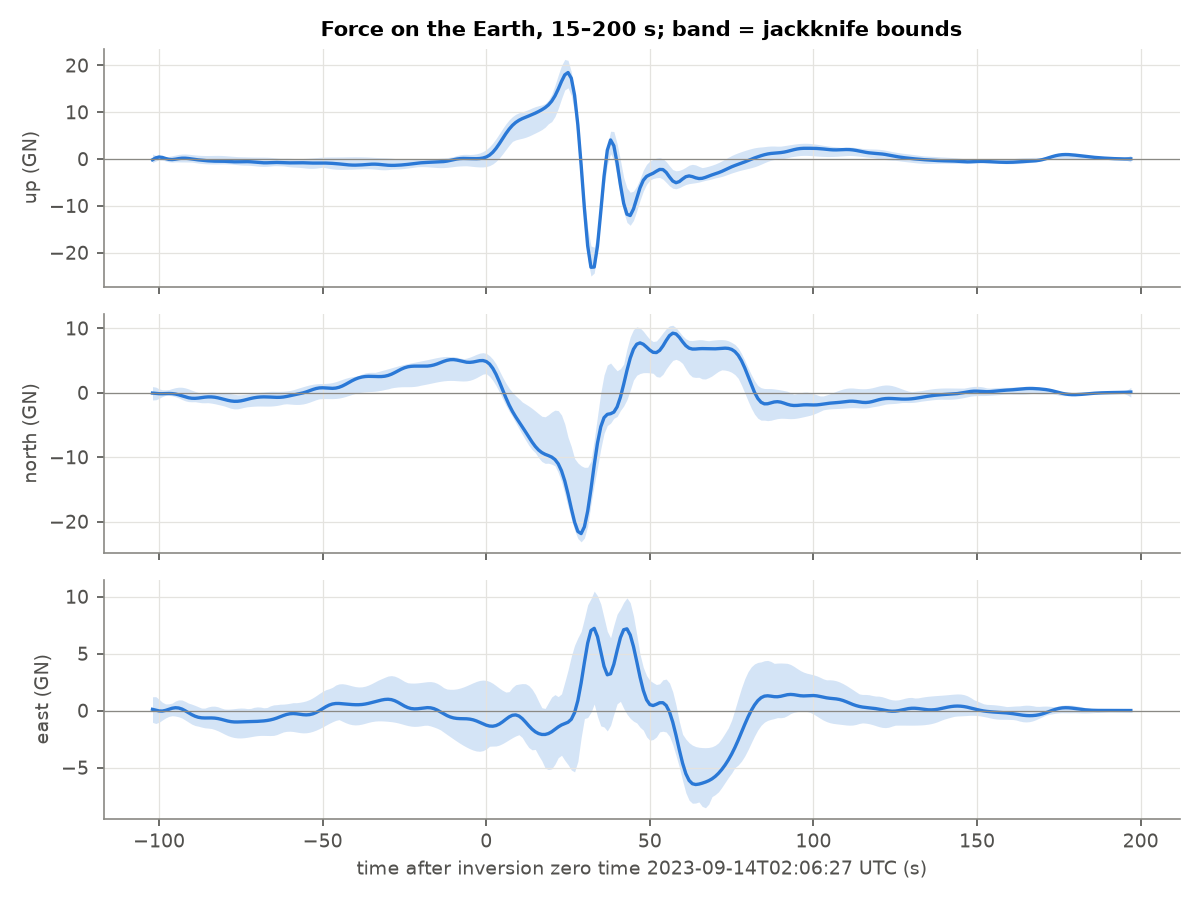
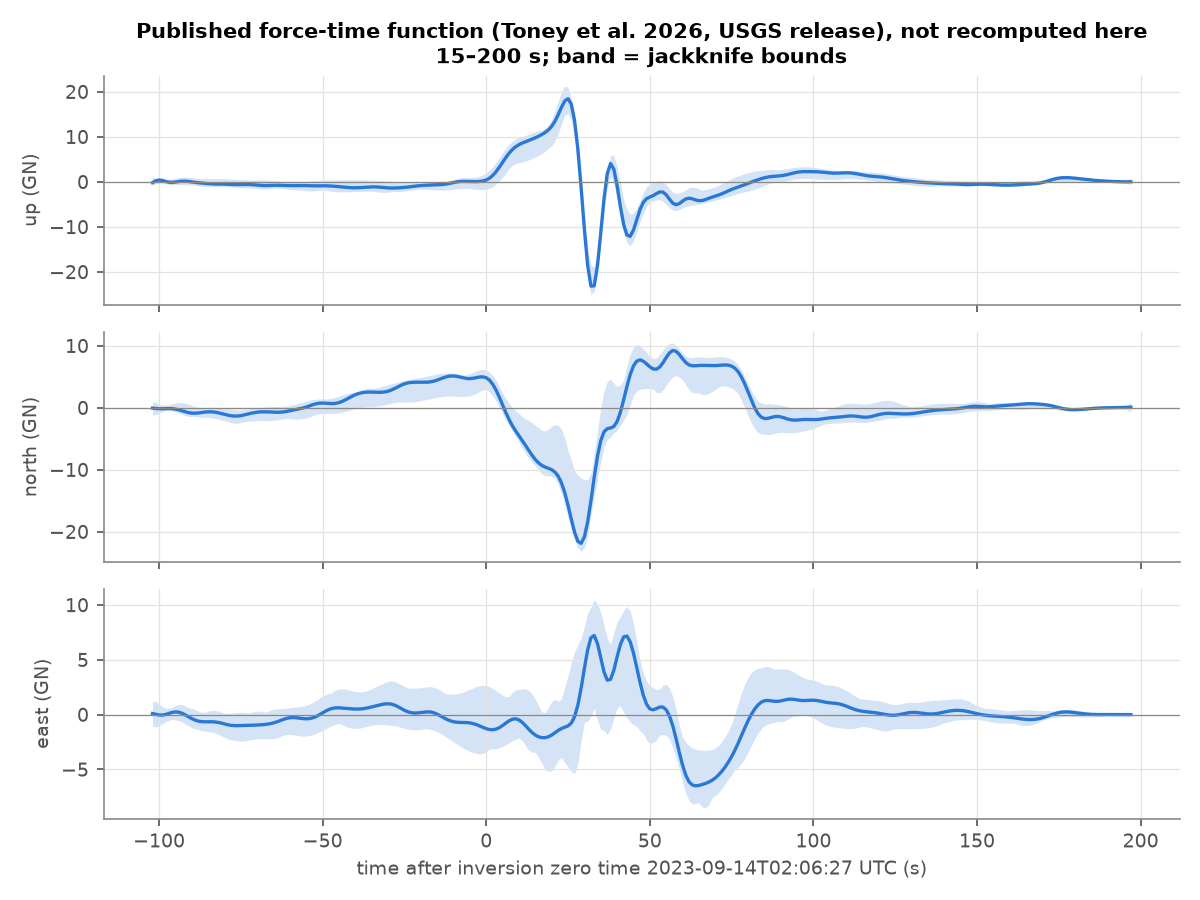
Report: label force panel as published result; add Sentinel-2 panel
The force-time function is Toney et al. (2026)'s published inversion
from the USGS release, plotted unmodified; say so in the panel title,
section heading, caption, page header and footer. Add the Sentinel-2
before/after panel now that optical_s2.zarr is staged, with a note that
the post-event scene is snow-covered.

diff --git a/docs/index.html b/docs/index.html
@@ -34,14 +34,14 @@ footer{margin-top:48px;color:var(--muted);font-size:12.5px}
 <p class="sub">Denali National Park and Preserve, Alaska. Data container built with
 <a href="https://github.com/gaia-hazlab/gaia-cli">gaia-cli</a> conventions for the event studied in
 Toney et al. (2026), <em>JGR Earth Surface</em>, <a href="https://doi.org/10.1029/2025JF008577">doi:10.1029/2025JF008577</a>.
-Model output, force inversion and outlines come from the USGS data release
+The force-time function, SHALTOP run and source/deposit outlines are the published results from the USGS data release, plotted as released, not recomputed here:
 <a href="https://doi.org/10.5066/P13WIS6X">doi:10.5066/P13WIS6X</a>.</p>
 <div class="tiles"><div class="tile"><div class="v">2023-09-14 02:06:49</div><div class="k">origin (UTC)</div></div><div class="tile"><div class="v">6.1 × 10⁶ m³</div><div class="k">volume</div></div><div class="tile"><div class="v">0.143 / 1.520 km²</div><div class="k">source / footprint</div></div><div class="tile"><div class="v">> 60 m/s</div><div class="k">peak speed</div></div><div class="tile"><div class="v">48</div><div class="k">seismic stations</div></div><div class="tile"><div class="v">31</div><div class="k">infrasound sensors</div></div></div>
-<nav><a href="#map">Stations</a><a href="#seismic">Seismic record section</a><a href="#infrasound">Infrasound record section</a><a href="#i53">I53US array</a><a href="#force">Force-time function</a><a href="#sar">Sentinel-1 before / after</a><a href="#optical">Sentinel-2 before / after</a><a href="#shaltop">Flow model</a><a href="#glacier">Glacier context</a><a href="#met">Antecedent weather</a><a href="#profile">Atmosphere at event time</a></nav>
-<h2 id="map">Stations</h2><figure><img src="figures/map.png" alt="Stations" loading="lazy"><figcaption>Seismic stations within 250 km (HH/BH, response removed) and infrasound sensors within 400 km (BDF/HDF, sensitivity removed), from the EarthScope FDSN service. Rings every 100 km around the ComCat location. Store: <code>stations/seismic</code>, <code>stations/infrasound</code>.</figcaption></figure><details><summary>Station table</summary><table><thead><tr><th>type</th><th>station</th><th>channel</th><th>distance (km)</th><th>back azimuth (°)</th></tr></thead><tbody><tr><td>infrasound</td><td>AK.CUT.EP</td><td>BDF</td><td>95.1</td><td>330.5</td></tr><tr><td>infrasound</td><td>AK.CHUM.EP</td><td>BDF</td><td>99.4</td><td>145.2</td></tr><tr><td>infrasound</td><td>AK.SKN.EP</td><td>BDF</td><td>131.1</td><td>7.5</td></tr><tr><td>infrasound</td><td>AK.NEA2.EP</td><td>BDF</td><td>192.1</td><td>213.8</td></tr><tr><td>infrasound</td><td>AK.MLY.EP</td><td>BDF</td><td>211.2</td><td>186.1</td></tr><tr><td>infrasound</td><td>AV.SPCP</td><td>BDF</td><td>215.5</td><td>13.1</td></tr><tr><td>infrasound</td><td>AV.SPWE</td><td>BDF</td><td>220.4</td><td>18.2</td></tr><tr><td>infrasound</td><td>AV.SPU</td><td>BDF</td><td>223.5</td><td>11.3</td></tr><tr><td>infrasound</td><td>AK.M23K.EP</td><td>BDF</td><td>233.8</td><td>311.7</td></tr><tr><td>infrasound</td><td>AK.RC01.EP</td><td>BDF</td><td>241.4</td><td>342.3</td></tr><tr><td>infrasound</td><td>IM.I53H4</td><td>BDF</td><td>250.8</td><td>221.9</td></tr><tr><td>infrasound</td><td>IM.I53H5</td><td>BDF</td><td>251.2</td><td>221.7</td></tr><tr><td>infrasound</td><td>IM.I53H8</td><td>BDF</td><td>251.5</td><td>221.9</td></tr><tr><td>infrasound</td><td>IM.I53H6</td><td>BDF</td><td>251.7</td><td>221.8</td></tr><tr><td>infrasound</td><td>IM.I53H7</td><td>BDF</td><td>251.7</td><td>221.9</td></tr><tr><td>infrasound</td><td>IM.I53H3</td><td>BDF</td><td>251.8</td><td>222.1</td></tr><tr><td>infrasound</td><td>AK.HDA.EP</td><td>BDF</td><td>252.1</td><td>238.0</td></tr><tr><td>infrasound</td><td>IM.I53H1</td><td>BDF</td><td>252.3</td><td>221.7</td></tr><tr><td>infrasound</td><td>IM.I53H2</td><td>BDF</td><td>252.8</td><td>221.9</td></tr><tr><td>infrasound</td><td>AK.CAPN.EP</td><td>BDF</td><td>264.9</td><td>359.6</td></tr><tr><td>infrasound</td><td>AV.BATI</td><td>HDF</td><td>273.1</td><td>326.2</td></tr><tr><td>infrasound</td><td>AV.BAEI.01</td><td>HDF</td><td>275.5</td><td>325.9</td></tr><tr><td>infrasound</td><td>AV.BAIS.01</td><td>HDF</td><td>275.6</td><td>326.3</td></tr><tr><td>infrasound</td><td>AV.KENI.01</td><td>HDF</td><td>279.2</td><td>358.8</td></tr><tr><td>infrasound</td><td>AK.POKR.EP</td><td>BDF</td><td>285.9</td><td>221.5</td></tr><tr><td>infrasound</td><td>AV.WHTR.01</td><td>HDF</td><td>293.6</td><td>335.0</td></tr><tr><td>infrasound</td><td>AV.RDT</td><td>BDF</td><td>293.8</td><td>12.1</td></tr><tr><td>infrasound</td><td>AV.RDDF</td><td>BDF</td><td>295.4</td><td>14.8</td></tr><tr><td>infrasound</td><td>AV.RDSO</td><td>BDF</td><td>311.0</td><td>14.6</td></tr><tr><td>infrasound</td><td>AK.HARP.EP</td><td>BDF</td><td>319.0</td><td>287.8</td></tr><tr><td>infrasound</td><td>AK.HOM.EP</td><td>BDF</td><td>389.5</td><td>3.4</td></tr><tr><td>seismic</td><td>AK.KTH</td><td>BH?</td><td>47.3</td><td>196.5</td></tr><tr><td>seismic</td><td>AK.CAST</td><td>BH?</td><td>54.2</td><td>123.8</td></tr><tr><td>seismic</td><td>AK.PPLA</td><td>BH?</td><td>57.7</td><td>60.8</td></tr><tr><td>seismic</td><td>AK.L22K</td><td>BH?</td><td>72.3</td><td>343.0</td></tr><tr><td>seismic</td><td>AK.CUT</td><td>BH?</td><td>95.1</td><td>330.5</td></tr><tr><td>seismic</td><td>AK.CHUM</td><td>BH?</td><td>99.4</td><td>145.2</td></tr><tr><td>seismic</td><td>AK.BPAW</td><td>BH?</td><td>106.8</td><td>185.5</td></tr><tr><td>seismic</td><td>AK.RND</td><td>BH?</td><td>120.5</td><td>257.1</td></tr><tr><td>seismic</td><td>AK.WAT7</td><td>BH?</td><td>123.8</td><td>287.4</td></tr><tr><td>seismic</td><td>AK.MCK</td><td>BH?</td><td>130.1</td><td>240.8</td></tr><tr><td>seismic</td><td>AK.SKN</td><td>BH?</td><td>131.1</td><td>7.5</td></tr><tr><td>seismic</td><td>AK.WAT1</td><td>HH?</td><td>138.4</td><td>285.9</td></tr><tr><td>seismic</td><td>AK.K20K</td><td>BH?</td><td>146.6</td><td>98.0</td></tr><tr><td>seismic</td><td>AK.L20K</td><td>BH?</td><td>156.0</td><td>60.4</td></tr><tr><td>seismic</td><td>AK.M20K</td><td>BH?</td><td>172.7</td><td>34.5</td></tr><tr><td>seismic</td><td>AK.J20K</td><td>BH?</td><td>186.1</td><td>126.8</td></tr><tr><td>seismic</td><td>AK.WAT6</td><td>BH?</td><td>186.6</td><td>291.2</td></tr><tr><td>seismic</td><td>AV.STLK</td><td>BH?</td><td>186.6</td><td>10.0</td></tr><tr><td>seismic</td><td>AK.NEA2</td><td>BH?</td><td>192.1</td><td>213.8</td></tr><tr><td>seismic</td><td>AK.GHO</td><td>BH?</td><td>192.7</td><td>323.7</td></tr><tr><td>seismic</td><td>AK.DHY</td><td>BH?</td><td>192.7</td><td>274.0</td></tr><tr><td>seismic</td><td>AV.SPBL</td><td>BH?</td><td>200.5</td><td>10.2</td></tr><tr><td>seismic</td><td>AT.PMR</td><td>BH?</td><td>203.3</td><td>329.3</td></tr><tr><td>seismic</td><td>AK.SAW</td><td>BH?</td><td>209.7</td><td>316.6</td></tr><tr><td>seismic</td><td>AV.SPCG</td><td>BH?</td><td>211.1</td><td>11.5</td></tr><tr><td>seismic</td><td>AK.MLY</td><td>BH?</td><td>211.2</td><td>186.1</td></tr><tr><td>seismic</td><td>AK.WRH</td><td>BH?</td><td>212.5</td><td>227.3</td></tr><tr><td>seismic</td><td>AV.SPNN</td><td>BH?</td><td>213.3</td><td>20.9</td></tr><tr><td>seismic</td><td>AK.M19K</td><td>BH?</td><td>215.2</td><td>48.6</td></tr><tr><td>seismic</td><td>AV.SPCP</td><td>BH?</td><td>215.5</td><td>13.1</td></tr><tr><td>seismic</td><td>AK.L19K</td><td>BH?</td><td>216.3</td><td>58.6</td></tr><tr><td>seismic</td><td>AV.SPBG</td><td>BH?</td><td>219.0</td><td>15.8</td></tr><tr><td>seismic</td><td>AV.SPCN</td><td>BH?</td><td>220.3</td><td>13.1</td></tr><tr><td>seismic</td><td>AV.SPWE</td><td>BH?</td><td>220.4</td><td>18.2</td></tr><tr><td>seismic</td><td>AV.N20K</td><td>BH?</td><td>223.2</td><td>13.3</td></tr><tr><td>seismic</td><td>AV.SPU</td><td>BH?</td><td>223.5</td><td>11.3</td></tr><tr><td>seismic</td><td>AV.SPCL</td><td>BH?</td><td>225.4</td><td>14.9</td></tr><tr><td>seismic</td><td>AK.FIRE</td><td>BH?</td><td>228.9</td><td>347.6</td></tr><tr><td>seismic</td><td>AK.I21K</td><td>BH?</td><td>230.0</td><td>170.0</td></tr><tr><td>seismic</td><td>AK.M23K</td><td>BH?</td><td>233.8</td><td>311.7</td></tr><tr><td>seismic</td><td>AK.CCB</td><td>BH?</td><td>235.7</td><td>226.4</td></tr><tr><td>seismic</td><td>AK.KNK</td><td>BH?</td><td>239.5</td><td>324.9</td></tr><tr><td>seismic</td><td>AK.J19K</td><td>BH?</td><td>239.5</td><td>111.3</td></tr><tr><td>seismic</td><td>AK.I23K</td><td>BH?</td><td>240.3</td><td>202.6</td></tr><tr><td>seismic</td><td>AK.RC01</td><td>BH?</td><td>241.4</td><td>342.3</td></tr><tr><td>seismic</td><td>AT.TTA</td><td>BH?</td><td>245.1</td><td>82.2</td></tr><tr><td>seismic</td><td>AK.SCM</td><td>BH?</td><td>247.0</td><td>308.0</td></tr><tr><td>seismic</td><td>AK.MDM</td><td>BH?</td><td>248.5</td><td>216.9</td></tr></tbody></table></details><h2 id="seismic">Seismic record section</h2><figure><img src="figures/seismic.png" alt="Seismic record section" loading="lazy"><figcaption>Vertical velocity at 48 stations on the common 20 Hz grid, zero-phase Butterworth filtered and each trace normalized; traces thinned to a minimum distance spacing so they do not overprint. Orange line: ComCat landslide origin (2023-09-14T02:06:49.074Z). The ComCat precursor (2023-09-14T01:58:54.098Z) is 475 s earlier, outside this window.</figcaption></figure><h2 id="infrasound">Infrasound record section</h2><figure><img src="figures/infrasound.png" alt="Infrasound record section" loading="lazy"><figcaption>Pressure from 31 sensors, 0.5–5 Hz, each trace normalized; thinned to a minimum distance spacing, so each array shows one element. Orange lines: arrival times for constant celerities from the ComCat origin. Dotted vertical line: ComCat precursor time.</figcaption></figure><h2 id="i53">I53US array</h2><figure><img src="figures/i53.png" alt="I53US array" loading="lazy"><figcaption>The eight elements of IMS array I53US (Fairbanks), ~252 km from the source, 0.5–5 Hz. The main pulse arrives about 870 s after the ComCat origin, an apparent celerity of ~0.29 km/s. Shifting the ComCat precursor time by the same travel time (dashed) lands on the arrival near 400 s; the arrival near 720 s has no ComCat entry. This is consistent with the two precursory events the paper reports, but here it is a visual alignment only: no array processing (back azimuth, trace velocity) has been run on these data.</figcaption></figure><h2 id="force">Force-time function</h2><figure><img src="figures/force.png" alt="Force-time function" loading="lazy"><figcaption>Force exerted by the landslide on the Earth, inverted from 15–200 s displacement seismograms (USGS data release, file <code>peters_dome_15-200_s_jackknife.csv</code>). Shaded band: jackknife lower/upper bounds. Zero time 2023-09-14 02:06:27 UTC (release metadata).</figcaption></figure><h2 id="sar">Sentinel-1 before / after</h2><figure><img src="figures/sar.png" alt="Sentinel-1 before / after" loading="lazy"><figcaption>Radiometrically terrain-corrected γ⁰ VV from Planetary Computer <code>sentinel-1-rtc</code>, last scene before and first after the event (12-day repeat, Sentinel-1A only in 2023). Outlines from the USGS release: solid = source + deposit, dashed = source.</figcaption></figure><h2 id="optical">Sentinel-2 before / after</h2><p class="missing">Not available in this build: not staged yet in this build</p><h2 id="shaltop">Flow model</h2><figure><img src="figures/shaltop.png" alt="Flow model" loading="lazy"><figcaption>SHALTOP run 0520 from the USGS release over its own topography (hillshade). Speed is shown only where flow thickness is at least 1 m: unmasked, thin margin cells reach 278 m/s, which is numerical, not physical. With the mask, the 99th percentile of the per-cell maximum speed is 99 m/s; the paper reports speeds exceeding 60 m/s.</figcaption></figure><h2 id="glacier">Glacier context</h2><p class="missing">Not available in this build: not staged yet in this build</p><h2 id="met">Antecedent weather</h2><figure><img src="figures/met.png" alt="Antecedent weather" loading="lazy"><figcaption>Hourly ERA5 (0.25°) via the Open-Meteo archive API at the node nearest the source, aggregated to days. The node's model elevation is far below the ~3,000 m source, so absolute temperatures are warm-biased for the release zone; use the series for timing of warm spells and storms, not for the source temperature. 14 days before the event: mean 4.9 °C, max 11.8 °C, precipitation 193 mm.</figcaption></figure><h2 id="profile">Atmosphere at event time</h2><figure><img src="figures/profile.png" alt="Atmosphere at event time" loading="lazy"><figcaption>Hourly pressure-level profiles at the source, the great-circle midpoint, and I53US, for the hour nearest the origin. Freezing level at the source: 2650 m. Top level 30 hPa (~24 km), so stratospheric ducting is not resolved here.</figcaption></figure>
+<nav><a href="#map">Stations</a><a href="#seismic">Seismic record section</a><a href="#infrasound">Infrasound record section</a><a href="#i53">I53US array</a><a href="#force">Force-time function (published)</a><a href="#sar">Sentinel-1 before / after</a><a href="#optical">Sentinel-2 before / after</a><a href="#shaltop">Flow model</a><a href="#glacier">Glacier context</a><a href="#met">Antecedent weather</a><a href="#profile">Atmosphere at event time</a></nav>
+<h2 id="map">Stations</h2><figure><img src="figures/map.png" alt="Stations" loading="lazy"><figcaption>Seismic stations within 250 km (HH/BH, response removed) and infrasound sensors within 400 km (BDF/HDF, sensitivity removed), from the EarthScope FDSN service. Rings every 100 km around the ComCat location. Store: <code>stations/seismic</code>, <code>stations/infrasound</code>.</figcaption></figure><details><summary>Station table</summary><table><thead><tr><th>type</th><th>station</th><th>channel</th><th>distance (km)</th><th>back azimuth (°)</th></tr></thead><tbody><tr><td>infrasound</td><td>AK.CUT.EP</td><td>BDF</td><td>95.1</td><td>330.5</td></tr><tr><td>infrasound</td><td>AK.CHUM.EP</td><td>BDF</td><td>99.4</td><td>145.2</td></tr><tr><td>infrasound</td><td>AK.SKN.EP</td><td>BDF</td><td>131.1</td><td>7.5</td></tr><tr><td>infrasound</td><td>AK.NEA2.EP</td><td>BDF</td><td>192.1</td><td>213.8</td></tr><tr><td>infrasound</td><td>AK.MLY.EP</td><td>BDF</td><td>211.2</td><td>186.1</td></tr><tr><td>infrasound</td><td>AV.SPCP</td><td>BDF</td><td>215.5</td><td>13.1</td></tr><tr><td>infrasound</td><td>AV.SPWE</td><td>BDF</td><td>220.4</td><td>18.2</td></tr><tr><td>infrasound</td><td>AV.SPU</td><td>BDF</td><td>223.5</td><td>11.3</td></tr><tr><td>infrasound</td><td>AK.M23K.EP</td><td>BDF</td><td>233.8</td><td>311.7</td></tr><tr><td>infrasound</td><td>AK.RC01.EP</td><td>BDF</td><td>241.4</td><td>342.3</td></tr><tr><td>infrasound</td><td>IM.I53H4</td><td>BDF</td><td>250.8</td><td>221.9</td></tr><tr><td>infrasound</td><td>IM.I53H5</td><td>BDF</td><td>251.2</td><td>221.7</td></tr><tr><td>infrasound</td><td>IM.I53H8</td><td>BDF</td><td>251.5</td><td>221.9</td></tr><tr><td>infrasound</td><td>IM.I53H6</td><td>BDF</td><td>251.7</td><td>221.8</td></tr><tr><td>infrasound</td><td>IM.I53H7</td><td>BDF</td><td>251.7</td><td>221.9</td></tr><tr><td>infrasound</td><td>IM.I53H3</td><td>BDF</td><td>251.8</td><td>222.1</td></tr><tr><td>infrasound</td><td>AK.HDA.EP</td><td>BDF</td><td>252.1</td><td>238.0</td></tr><tr><td>infrasound</td><td>IM.I53H1</td><td>BDF</td><td>252.3</td><td>221.7</td></tr><tr><td>infrasound</td><td>IM.I53H2</td><td>BDF</td><td>252.8</td><td>221.9</td></tr><tr><td>infrasound</td><td>AK.CAPN.EP</td><td>BDF</td><td>264.9</td><td>359.6</td></tr><tr><td>infrasound</td><td>AV.BATI</td><td>HDF</td><td>273.1</td><td>326.2</td></tr><tr><td>infrasound</td><td>AV.BAEI.01</td><td>HDF</td><td>275.5</td><td>325.9</td></tr><tr><td>infrasound</td><td>AV.BAIS.01</td><td>HDF</td><td>275.6</td><td>326.3</td></tr><tr><td>infrasound</td><td>AV.KENI.01</td><td>HDF</td><td>279.2</td><td>358.8</td></tr><tr><td>infrasound</td><td>AK.POKR.EP</td><td>BDF</td><td>285.9</td><td>221.5</td></tr><tr><td>infrasound</td><td>AV.WHTR.01</td><td>HDF</td><td>293.6</td><td>335.0</td></tr><tr><td>infrasound</td><td>AV.RDT</td><td>BDF</td><td>293.8</td><td>12.1</td></tr><tr><td>infrasound</td><td>AV.RDDF</td><td>BDF</td><td>295.4</td><td>14.8</td></tr><tr><td>infrasound</td><td>AV.RDSO</td><td>BDF</td><td>311.0</td><td>14.6</td></tr><tr><td>infrasound</td><td>AK.HARP.EP</td><td>BDF</td><td>319.0</td><td>287.8</td></tr><tr><td>infrasound</td><td>AK.HOM.EP</td><td>BDF</td><td>389.5</td><td>3.4</td></tr><tr><td>seismic</td><td>AK.KTH</td><td>BH?</td><td>47.3</td><td>196.5</td></tr><tr><td>seismic</td><td>AK.CAST</td><td>BH?</td><td>54.2</td><td>123.8</td></tr><tr><td>seismic</td><td>AK.PPLA</td><td>BH?</td><td>57.7</td><td>60.8</td></tr><tr><td>seismic</td><td>AK.L22K</td><td>BH?</td><td>72.3</td><td>343.0</td></tr><tr><td>seismic</td><td>AK.CUT</td><td>BH?</td><td>95.1</td><td>330.5</td></tr><tr><td>seismic</td><td>AK.CHUM</td><td>BH?</td><td>99.4</td><td>145.2</td></tr><tr><td>seismic</td><td>AK.BPAW</td><td>BH?</td><td>106.8</td><td>185.5</td></tr><tr><td>seismic</td><td>AK.RND</td><td>BH?</td><td>120.5</td><td>257.1</td></tr><tr><td>seismic</td><td>AK.WAT7</td><td>BH?</td><td>123.8</td><td>287.4</td></tr><tr><td>seismic</td><td>AK.MCK</td><td>BH?</td><td>130.1</td><td>240.8</td></tr><tr><td>seismic</td><td>AK.SKN</td><td>BH?</td><td>131.1</td><td>7.5</td></tr><tr><td>seismic</td><td>AK.WAT1</td><td>HH?</td><td>138.4</td><td>285.9</td></tr><tr><td>seismic</td><td>AK.K20K</td><td>BH?</td><td>146.6</td><td>98.0</td></tr><tr><td>seismic</td><td>AK.L20K</td><td>BH?</td><td>156.0</td><td>60.4</td></tr><tr><td>seismic</td><td>AK.M20K</td><td>BH?</td><td>172.7</td><td>34.5</td></tr><tr><td>seismic</td><td>AK.J20K</td><td>BH?</td><td>186.1</td><td>126.8</td></tr><tr><td>seismic</td><td>AK.WAT6</td><td>BH?</td><td>186.6</td><td>291.2</td></tr><tr><td>seismic</td><td>AV.STLK</td><td>BH?</td><td>186.6</td><td>10.0</td></tr><tr><td>seismic</td><td>AK.NEA2</td><td>BH?</td><td>192.1</td><td>213.8</td></tr><tr><td>seismic</td><td>AK.GHO</td><td>BH?</td><td>192.7</td><td>323.7</td></tr><tr><td>seismic</td><td>AK.DHY</td><td>BH?</td><td>192.7</td><td>274.0</td></tr><tr><td>seismic</td><td>AV.SPBL</td><td>BH?</td><td>200.5</td><td>10.2</td></tr><tr><td>seismic</td><td>AT.PMR</td><td>BH?</td><td>203.3</td><td>329.3</td></tr><tr><td>seismic</td><td>AK.SAW</td><td>BH?</td><td>209.7</td><td>316.6</td></tr><tr><td>seismic</td><td>AV.SPCG</td><td>BH?</td><td>211.1</td><td>11.5</td></tr><tr><td>seismic</td><td>AK.MLY</td><td>BH?</td><td>211.2</td><td>186.1</td></tr><tr><td>seismic</td><td>AK.WRH</td><td>BH?</td><td>212.5</td><td>227.3</td></tr><tr><td>seismic</td><td>AV.SPNN</td><td>BH?</td><td>213.3</td><td>20.9</td></tr><tr><td>seismic</td><td>AK.M19K</td><td>BH?</td><td>215.2</td><td>48.6</td></tr><tr><td>seismic</td><td>AV.SPCP</td><td>BH?</td><td>215.5</td><td>13.1</td></tr><tr><td>seismic</td><td>AK.L19K</td><td>BH?</td><td>216.3</td><td>58.6</td></tr><tr><td>seismic</td><td>AV.SPBG</td><td>BH?</td><td>219.0</td><td>15.8</td></tr><tr><td>seismic</td><td>AV.SPCN</td><td>BH?</td><td>220.3</td><td>13.1</td></tr><tr><td>seismic</td><td>AV.SPWE</td><td>BH?</td><td>220.4</td><td>18.2</td></tr><tr><td>seismic</td><td>AV.N20K</td><td>BH?</td><td>223.2</td><td>13.3</td></tr><tr><td>seismic</td><td>AV.SPU</td><td>BH?</td><td>223.5</td><td>11.3</td></tr><tr><td>seismic</td><td>AV.SPCL</td><td>BH?</td><td>225.4</td><td>14.9</td></tr><tr><td>seismic</td><td>AK.FIRE</td><td>BH?</td><td>228.9</td><td>347.6</td></tr><tr><td>seismic</td><td>AK.I21K</td><td>BH?</td><td>230.0</td><td>170.0</td></tr><tr><td>seismic</td><td>AK.M23K</td><td>BH?</td><td>233.8</td><td>311.7</td></tr><tr><td>seismic</td><td>AK.CCB</td><td>BH?</td><td>235.7</td><td>226.4</td></tr><tr><td>seismic</td><td>AK.KNK</td><td>BH?</td><td>239.5</td><td>324.9</td></tr><tr><td>seismic</td><td>AK.J19K</td><td>BH?</td><td>239.5</td><td>111.3</td></tr><tr><td>seismic</td><td>AK.I23K</td><td>BH?</td><td>240.3</td><td>202.6</td></tr><tr><td>seismic</td><td>AK.RC01</td><td>BH?</td><td>241.4</td><td>342.3</td></tr><tr><td>seismic</td><td>AT.TTA</td><td>BH?</td><td>245.1</td><td>82.2</td></tr><tr><td>seismic</td><td>AK.SCM</td><td>BH?</td><td>247.0</td><td>308.0</td></tr><tr><td>seismic</td><td>AK.MDM</td><td>BH?</td><td>248.5</td><td>216.9</td></tr></tbody></table></details><h2 id="seismic">Seismic record section</h2><figure><img src="figures/seismic.png" alt="Seismic record section" loading="lazy"><figcaption>Vertical velocity at 48 stations on the common 20 Hz grid, zero-phase Butterworth filtered and each trace normalized; traces thinned to a minimum distance spacing so they do not overprint. Orange line: ComCat landslide origin (2023-09-14T02:06:49.074Z). The ComCat precursor (2023-09-14T01:58:54.098Z) is 475 s earlier, outside this window.</figcaption></figure><h2 id="infrasound">Infrasound record section</h2><figure><img src="figures/infrasound.png" alt="Infrasound record section" loading="lazy"><figcaption>Pressure from 31 sensors, 0.5–5 Hz, each trace normalized; thinned to a minimum distance spacing, so each array shows one element. Orange lines: arrival times for constant celerities from the ComCat origin. Dotted vertical line: ComCat precursor time.</figcaption></figure><h2 id="i53">I53US array</h2><figure><img src="figures/i53.png" alt="I53US array" loading="lazy"><figcaption>The eight elements of IMS array I53US (Fairbanks), ~252 km from the source, 0.5–5 Hz. The main pulse arrives about 870 s after the ComCat origin, an apparent celerity of ~0.29 km/s. Shifting the ComCat precursor time by the same travel time (dashed) lands on the arrival near 400 s; the arrival near 720 s has no ComCat entry. This is consistent with the two precursory events the paper reports, but here it is a visual alignment only: no array processing (back azimuth, trace velocity) has been run on these data.</figcaption></figure><h2 id="force">Force-time function (published)</h2><figure><img src="figures/force.png" alt="Force-time function (published)" loading="lazy"><figcaption>Published result, not recomputed here: the force exerted by the landslide on the Earth as inverted by Toney et al. (2026) from 15–200 s displacement seismograms, plotted unmodified from the USGS data release (file <code>peters_dome_15-200_s_jackknife.csv</code>). No force inversion has been run on the seismograms staged in this container. Shaded band: jackknife lower/upper bounds. Zero time 2023-09-14 02:06:27 UTC (release metadata).</figcaption></figure><h2 id="sar">Sentinel-1 before / after</h2><figure><img src="figures/sar.png" alt="Sentinel-1 before / after" loading="lazy"><figcaption>Radiometrically terrain-corrected γ⁰ VV from Planetary Computer <code>sentinel-1-rtc</code>, last scene before and first after the event (12-day repeat, Sentinel-1A only in 2023). Outlines from the USGS release: solid = source + deposit, dashed = source.</figcaption></figure><h2 id="optical">Sentinel-2 before / after</h2><figure><img src="figures/optical.png" alt="Sentinel-2 before / after" loading="lazy"><figcaption>Sentinel-2 L2A true colour (Earth Search, collection 1), clearest scene on each side of the event by SCL clear-sky fraction (snow counts as clear); gamma 1.6 for display. Same outlines as above. The post-event scene is under fresh snow, so the deposit is not resolvable in true colour here; the Sentinel-1 change map above shows it.</figcaption></figure><h2 id="shaltop">Flow model</h2><figure><img src="figures/shaltop.png" alt="Flow model" loading="lazy"><figcaption>SHALTOP run 0520 from the USGS release over its own topography (hillshade). Speed is shown only where flow thickness is at least 1 m: unmasked, thin margin cells reach 278 m/s, which is numerical, not physical. With the mask, the 99th percentile of the per-cell maximum speed is 99 m/s; the paper reports speeds exceeding 60 m/s.</figcaption></figure><h2 id="glacier">Glacier context</h2><p class="missing">Not available in this build: not staged yet in this build</p><h2 id="met">Antecedent weather</h2><figure><img src="figures/met.png" alt="Antecedent weather" loading="lazy"><figcaption>Hourly ERA5 (0.25°) via the Open-Meteo archive API at the node nearest the source, aggregated to days. The node's model elevation is far below the ~3,000 m source, so absolute temperatures are warm-biased for the release zone; use the series for timing of warm spells and storms, not for the source temperature. 14 days before the event: mean 4.9 °C, max 11.8 °C, precipitation 193 mm.</figcaption></figure><h2 id="profile">Atmosphere at event time</h2><figure><img src="figures/profile.png" alt="Atmosphere at event time" loading="lazy"><figcaption>Hourly pressure-level profiles at the source, the great-circle midpoint, and I53US, for the hour nearest the origin. Freezing level at the source: 2650 m. Top level 30 hPa (~24 km), so stratospheric ducting is not resolved here.</figcaption></figure>
 <h2 id="data">Staged stores in this build</h2>
 <table><tbody><tr><td><code>dem_copdem.zarr</code></td></tr><tr><td><code>infrasound.zarr</code></td></tr><tr><td><code>met_era5.zarr</code></td></tr><tr><td><code>met_profiles.zarr</code></td></tr><tr><td><code>optical_landsat.zarr</code></td></tr><tr><td><code>optical_s2.zarr</code></td></tr><tr><td><code>sar_s1_rtc.zarr</code></td></tr><tr><td><code>seismic.zarr</code></td></tr><tr><td><code>seismic_lp.zarr</code></td></tr><tr><td><code>usgs_release.zarr</code></td></tr></tbody></table>
 <p>Reproduce: <code>pixi run stage-all &amp;&amp; pixi run report</code> in
 <a href="https://github.com/gaia-hazlab/gaia-peters-dome">gaia-hazlab/gaia-peters-dome</a>.</p>
-<footer>Built 2026-10-15 01:35 UTC from commit <code>b4bfed7</code>. Origin time and location: USGS ComCat; volume, outlines, force and SHALTOP: USGS data release; peak speed: paper abstract.</footer>
+<footer>Built 2026-10-15 02:20 UTC from commit <code>a9401c6</code>. Origin time and location: USGS ComCat; volume, outlines, published force-time function and SHALTOP run: USGS data release (not recomputed); peak speed: paper abstract.</footer>
 </main></body></html>

diff --git a/scripts/make_report.py b/scripts/make_report.py
@@ -238,7 +238,7 @@ def fig_force(staged, out):
         ax.axhline(0, color=MUTED, lw=0.6)
         ax.set_ylabel(f"{comp} (GN)")
     axes[-1].set_xlabel(f"time after inversion zero time {ds.force.attrs.get('zero_time_utc', '')} UTC (s)")
-    axes[0].set_title("Force on the Earth, 15–200 s; band = jackknife bounds")
+    axes[0].set_title("Published force-time function (Toney et al. 2026, USGS release), not recomputed here\n15–200 s; band = jackknife bounds")
     fig.tight_layout()
     fig.savefig(out)
     plt.close(fig)
@@ -422,9 +422,9 @@ FIGS = [
     ("seismic", fig_seismic, "Seismic record section", "Vertical velocity at {result} stations on the common 20 Hz grid, zero-phase Butterworth filtered and each trace normalized; traces thinned to a minimum distance spacing so they do not overprint. Orange line: ComCat landslide origin ({t0}). The ComCat precursor ({tpre}) is 475 s earlier, outside this window."),
     ("infrasound", fig_infrasound, "Infrasound record section", "Pressure from {result} sensors, 0.5–5 Hz, each trace normalized; thinned to a minimum distance spacing, so each array shows one element. Orange lines: arrival times for constant celerities from the ComCat origin. Dotted vertical line: ComCat precursor time."),
     ("i53", fig_i53, "I53US array", "The eight elements of IMS array I53US (Fairbanks), ~252 km from the source, 0.5–5 Hz. The main pulse arrives about 870 s after the ComCat origin, an apparent celerity of ~0.29 km/s. Shifting the ComCat precursor time by the same travel time (dashed) lands on the arrival near 400 s; the arrival near 720 s has no ComCat entry. This is consistent with the two precursory events the paper reports, but here it is a visual alignment only: no array processing (back azimuth, trace velocity) has been run on these data."),
-    ("force", fig_force, "Force-time function", "Force exerted by the landslide on the Earth, inverted from 15–200 s displacement seismograms (USGS data release, file <code>peters_dome_15-200_s_jackknife.csv</code>). Shaded band: jackknife lower/upper bounds. Zero time 2023-09-14 02:06:27 UTC (release metadata)."),
+    ("force", fig_force, "Force-time function (published)", "Published result, not recomputed here: the force exerted by the landslide on the Earth as inverted by Toney et al. (2026) from 15–200 s displacement seismograms, plotted unmodified from the USGS data release (file <code>peters_dome_15-200_s_jackknife.csv</code>). No force inversion has been run on the seismograms staged in this container. Shaded band: jackknife lower/upper bounds. Zero time 2023-09-14 02:06:27 UTC (release metadata)."),
     ("sar", fig_sar, "Sentinel-1 before / after", "Radiometrically terrain-corrected γ⁰ VV from Planetary Computer <code>sentinel-1-rtc</code>, last scene before and first after the event (12-day repeat, Sentinel-1A only in 2023). Outlines from the USGS release: solid = source + deposit, dashed = source."),
-    ("optical", fig_optical, "Sentinel-2 before / after", "Sentinel-2 L2A true colour (Earth Search, collection 1), clearest scene on each side of the event by SCL clear-sky fraction; gamma 1.6 for display. Same outlines as above."),
+    ("optical", fig_optical, "Sentinel-2 before / after", "Sentinel-2 L2A true colour (Earth Search, collection 1), clearest scene on each side of the event by SCL clear-sky fraction (snow counts as clear); gamma 1.6 for display. Same outlines as above. The post-event scene is under fresh snow, so the deposit is not resolvable in true colour here; the Sentinel-1 change map above shows it."),
     ("shaltop", fig_shaltop, "Flow model", "SHALTOP run 0520 from the USGS release over its own topography (hillshade). Speed is shown only where flow thickness is at least 1 m: unmasked, thin margin cells reach {result[raw]:.0f} m/s, which is numerical, not physical. With the mask, the 99th percentile of the per-cell maximum speed is {result[p99]:.0f} m/s; the paper reports speeds exceeding 60 m/s."),
     ("glacier", fig_glacier, "Glacier context", "ITS_LIVE v2 composite surface speed (120 m), reprojected to UTM 5N, with RGI v6 Alaska outlines served by GLIMS. Star: source area."),
     ("met", fig_met, "Antecedent weather", "Hourly ERA5 (0.25°) via the Open-Meteo archive API at the node nearest the source, aggregated to days. The node's model elevation is far below the ~3,000 m source, so absolute temperatures are warm-biased for the release zone; use the series for timing of warm spells and storms, not for the source temperature. 14 days before the event: mean {result[t_mean_14d]:.1f} °C, max {result[t_max_14d]:.1f} °C, precipitation {result[p_sum_14d]:.0f} mm."),
@@ -500,7 +500,7 @@ def build_page(results, station_table, staged_list, sha):
 <p class="sub">Denali National Park and Preserve, Alaska. Data container built with
 <a href="https://github.com/gaia-hazlab/gaia-cli">gaia-cli</a> conventions for the event studied in
 Toney et al. (2026), <em>JGR Earth Surface</em>, <a href="https://doi.org/{common.event()['references']['paper_doi']}">doi:{common.event()['references']['paper_doi']}</a>.
-Model output, force inversion and outlines come from the USGS data release
+The force-time function, SHALTOP run and source/deposit outlines are the published results from the USGS data release, plotted as released, not recomputed here:
 <a href="https://doi.org/{common.event()['references']['data_release_doi']}">doi:{common.event()['references']['data_release_doi']}</a>.</p>
 <div class="tiles">{''.join(f'<div class="tile"><div class="v">{v}</div><div class="k">{k}</div></div>' for k, v in tiles)}</div>
 <nav>{nav}</nav>
@@ -509,7 +509,7 @@ Model output, force inversion and outlines come from the USGS data release
 <table><tbody>{staged_rows}</tbody></table>
 <p>Reproduce: <code>pixi run stage-all &amp;&amp; pixi run report</code> in
 <a href="https://github.com/gaia-hazlab/gaia-peters-dome">gaia-hazlab/gaia-peters-dome</a>.</p>
-<footer>Built {built} from commit <code>{sha}</code>. Origin time and location: USGS ComCat; volume, outlines, force and SHALTOP: USGS data release; peak speed: paper abstract.</footer>
+<footer>Built {built} from commit <code>{sha}</code>. Origin time and location: USGS ComCat; volume, outlines, published force-time function and SHALTOP run: USGS data release (not recomputed); peak speed: paper abstract.</footer>
 </main></body></html>"""
 
 
